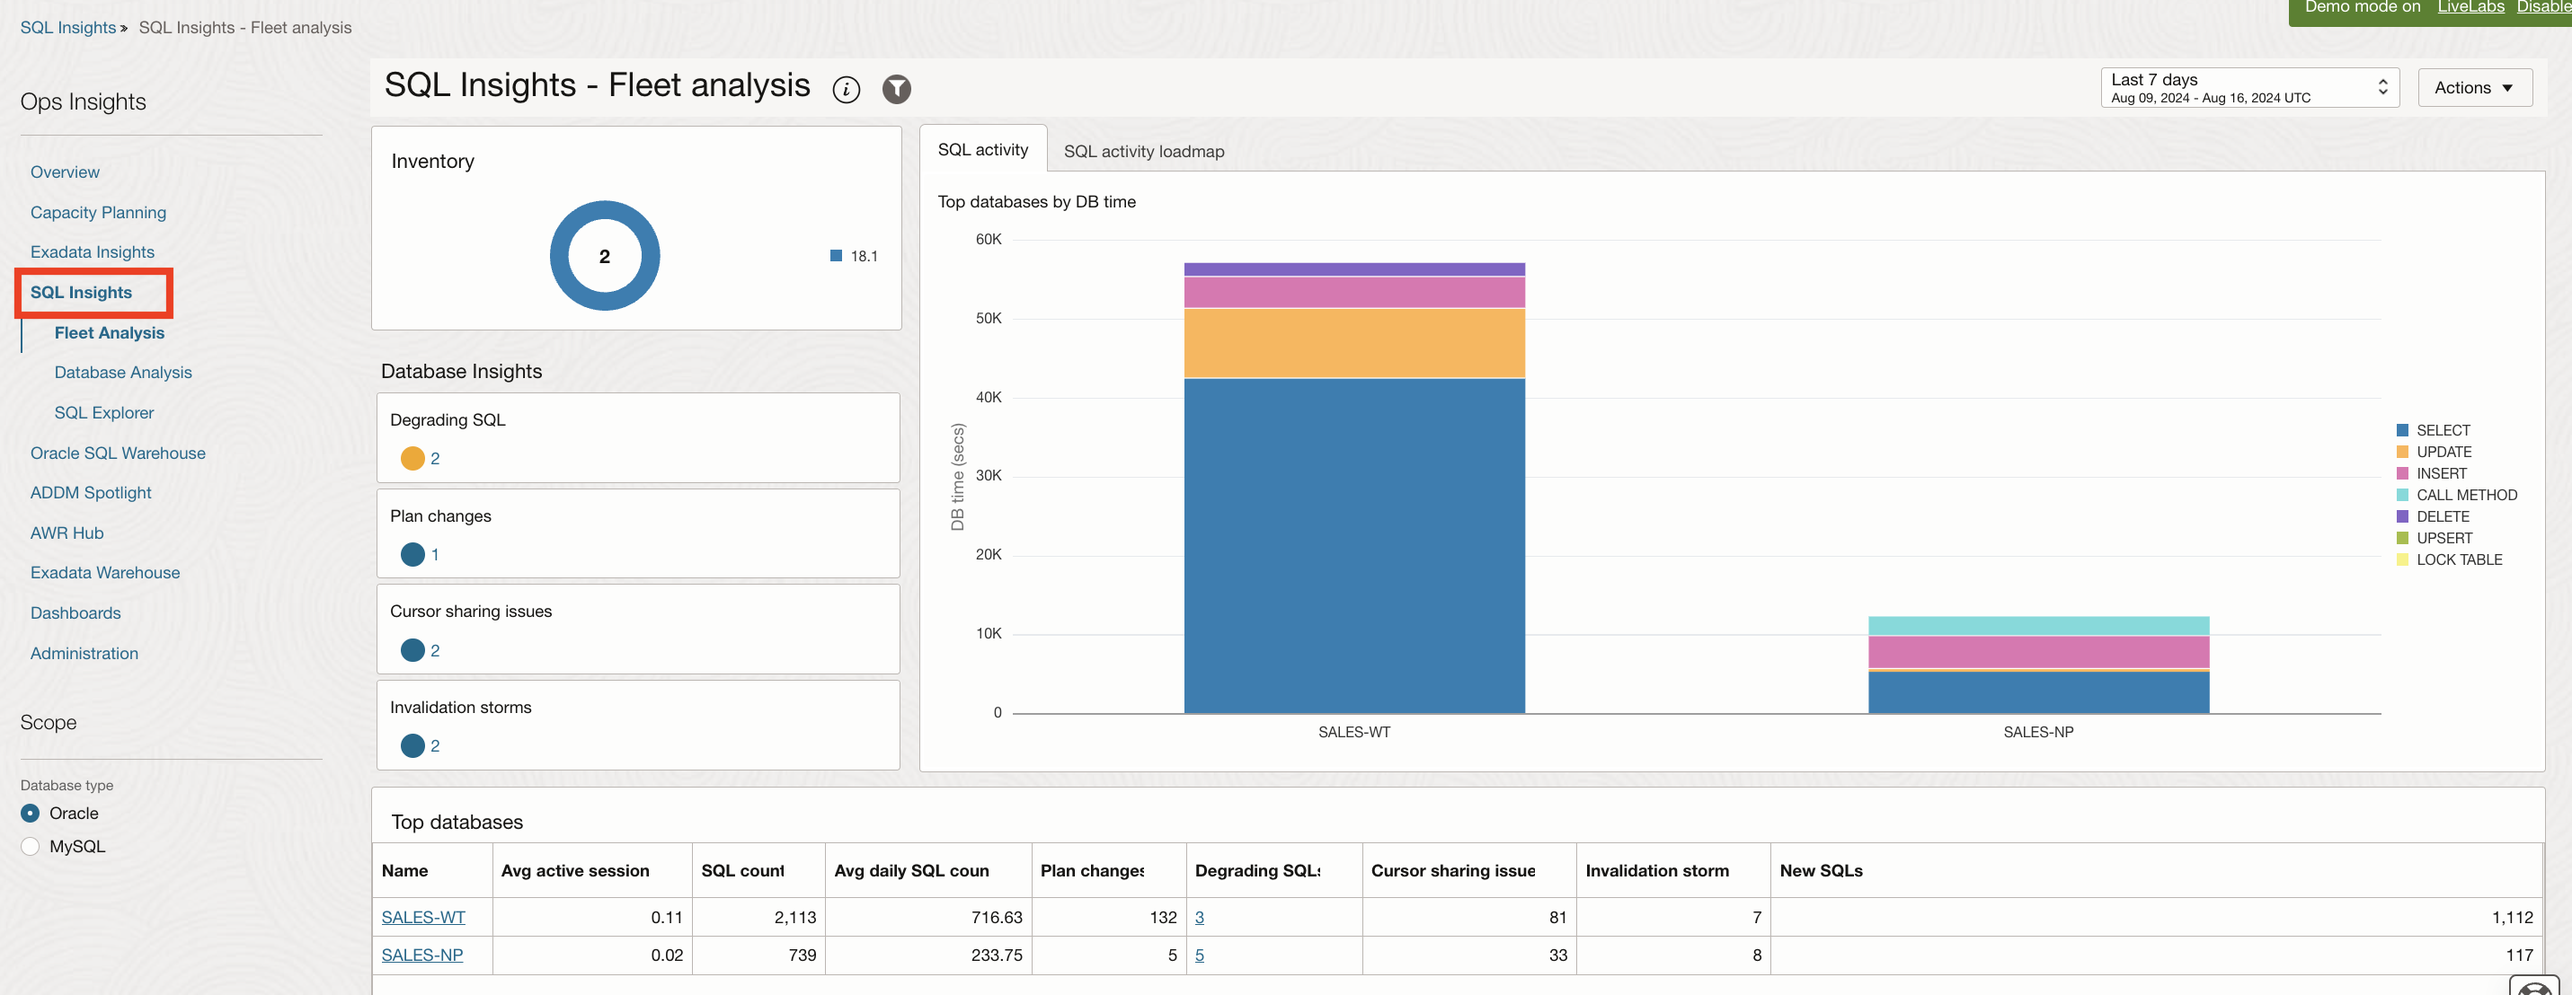
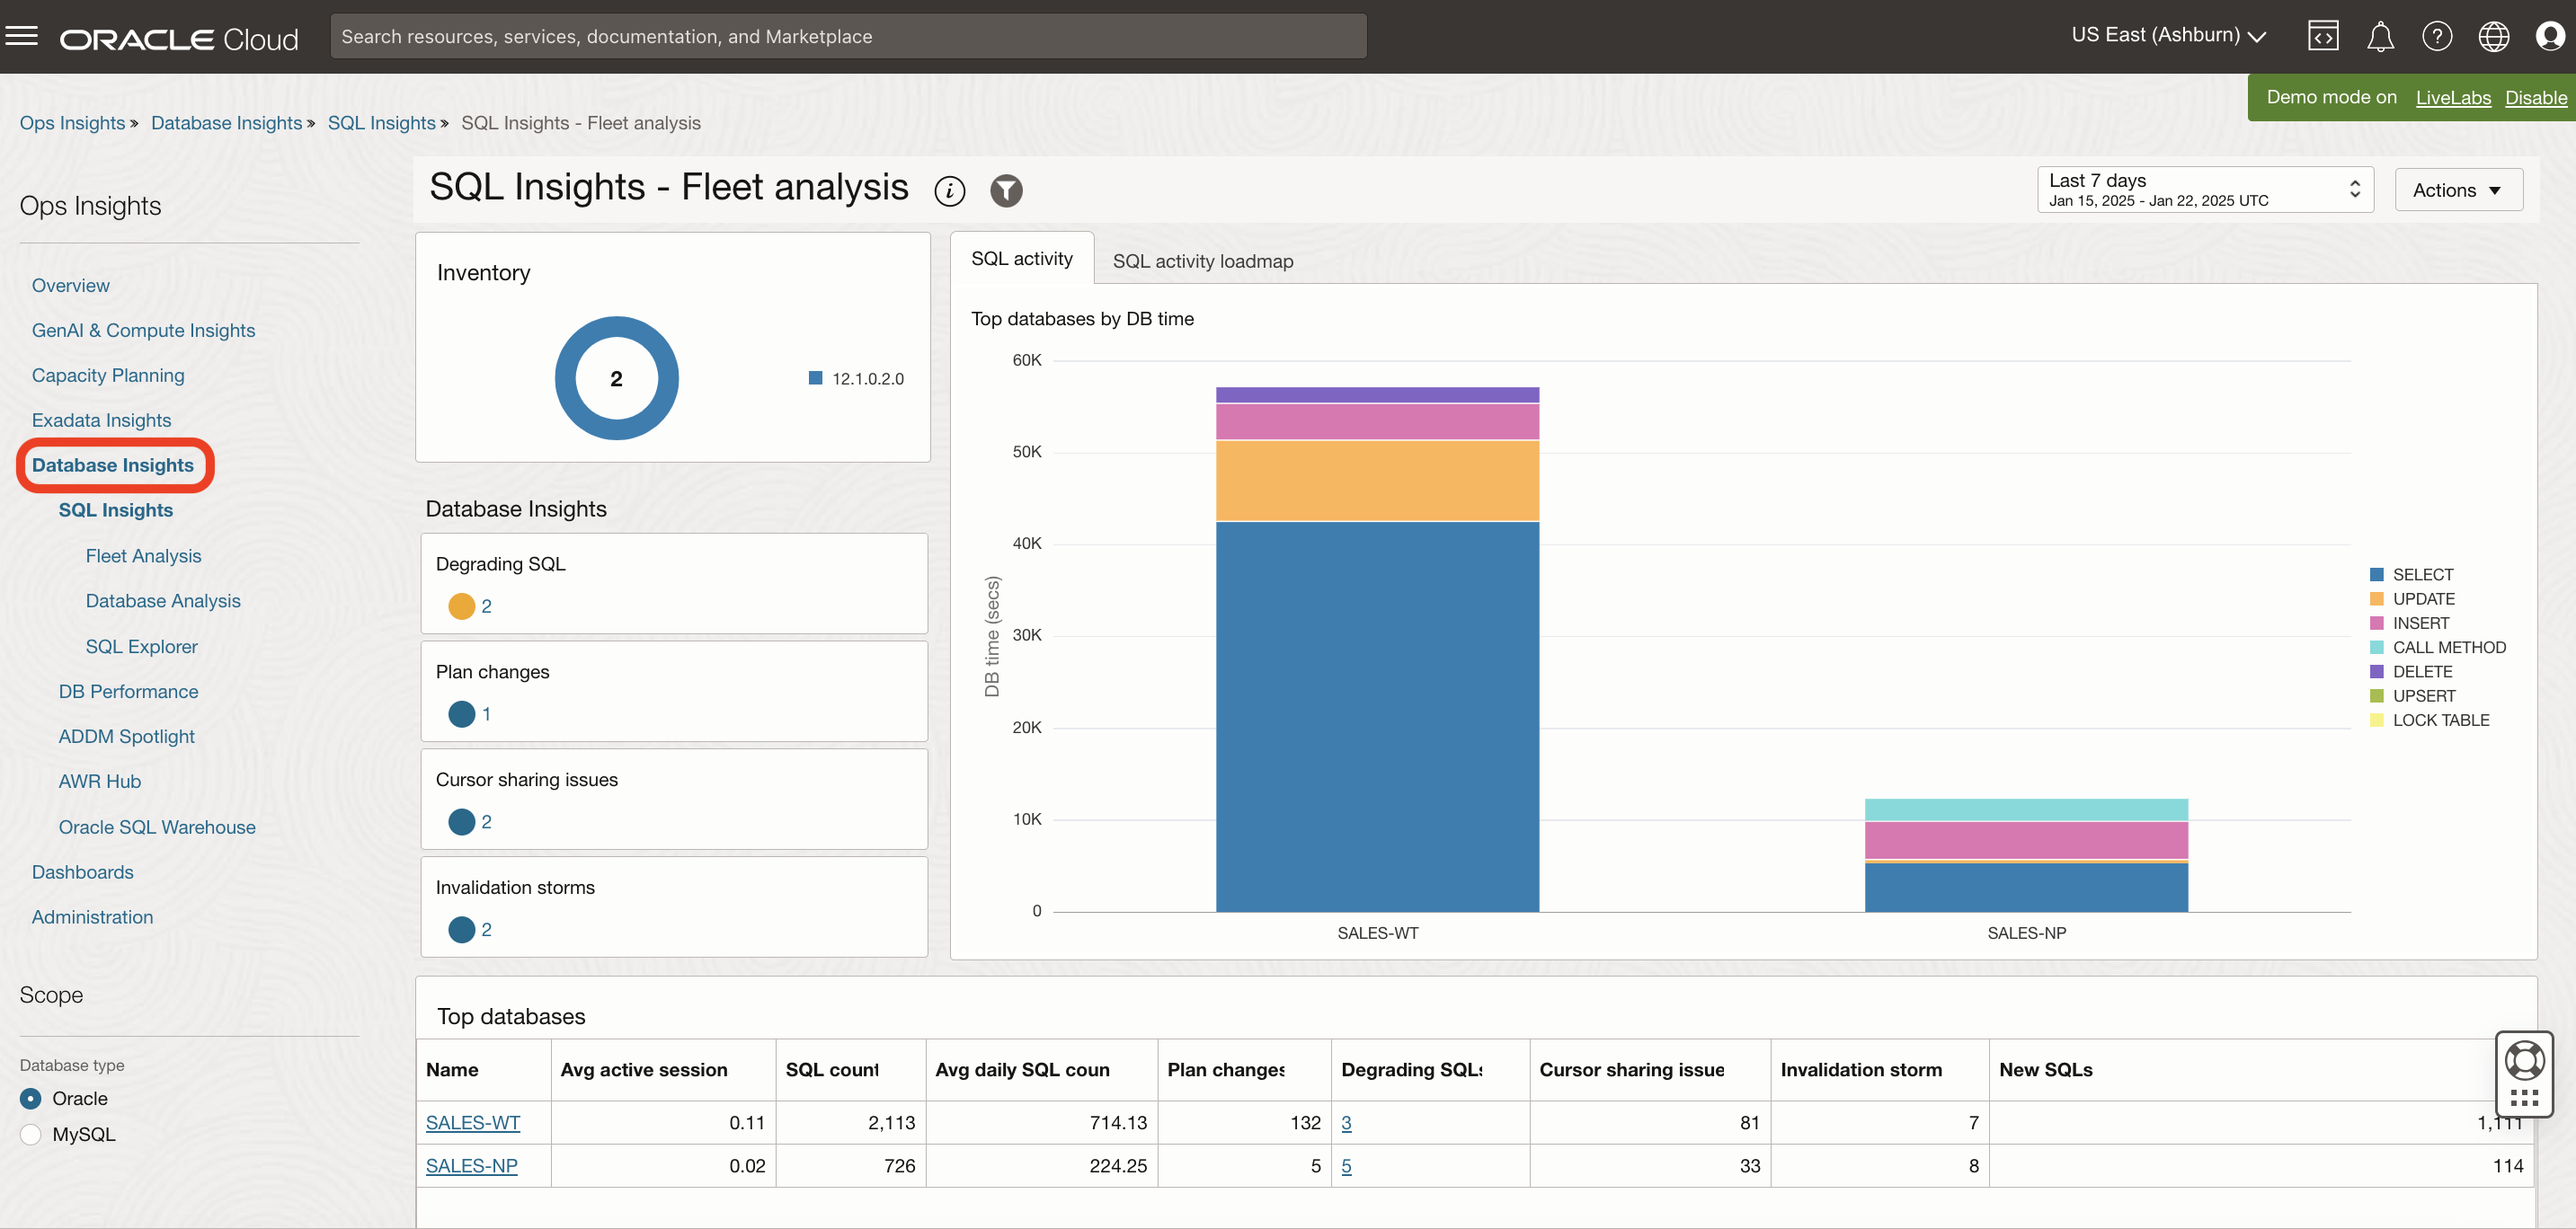
WMS ID: 7281 & 11111 NACIE SE Austin Changes (#322)
* Update manifest.json to remove cloud world help

* WMS ID 11111 : NACIE Austin 

WMS ID 11111 : NACIE Austin

* WMS ID : 11111 NACIE SE Austin

WMS ID : 11111 NACIE SE Austin

* WMS ID: 7281 NACIE SE Austin

WMS ID: 7281 NACIE SE Austin

* WMS ID: 7281 NACIE SE Austin

WMS ID: 7281 NACIE SE Austin

diff --git a/oci-database-management/ocw-oci-dbm/dbmgmt-features/dbmgmt-features-ocw.md b/oci-database-management/ocw-oci-dbm/dbmgmt-features/dbmgmt-features-ocw.md
@@ -35,17 +35,25 @@ This lab assumes you have already completed the following:
 
 ## Task 1: Getting Started with Database Management
 
-1.  Login to the Oracle Cloud Console, click the **Navigation Menu** in the upper left, navigate to **Observability & Management**, and select **Database Management**.
+1.  Login to the Oracle Cloud Console, change the OCI Region to **US East (Ashburn)** and then click on the **Navigation Menu** in the upper left, navigate to **Observability & Management**, and select **Database Management**.
+
+     ![Database Management](./images/dbmgmt_region.png " ")
 
      ![Database Management](./images/dbmgmt_ocw.png " ")
 
-     ![Database Management Overview](./images/dbmgmt-overview-ocw.png " ")
+**Note** : You will see an error due to insufficient privileges granted on the root compartment.
+     ![Database Management Overview](./images/dbmgmt-overview-ocw2.png " ")
 
-2.  The **Oracle databases** tile (on the **Overview** page) displays the total number of Oracle Databases in the compartment and the number of Oracle Databases for which Database Management is enabled.
+2.  Change the compartment to **dbmgmt** in the compartment field. The **Oracle databases** tile (on the **Overview** page) displays the total number of Oracle Databases in the compartment and the number of Oracle Databases for which Database Management is enabled.
+
+     ![Compartment](./images/compartment-select.png " ")
+
+     ![Database Management Overview](./images/dbmgmt-overview-ocw4.png " ")
+
 
 ## Task 2: Monitoring a Fleet of Databases
 
-1.  On the left pane, click **Oracle Database** to navigate to the **Fleet Summary** page. The dbmgmt compartment is selected by default in the Compartment field. Set the **Compartment** to **dbmgmt** following the navigation -
+1.  On the left pane, click **Diagnostics & Management** to navigate to the **Fleet Summary** page. The **dbmgmt** compartment is selected by default in the Compartment field. To set the **compartment** to **dbmgmt** follow the  compartment hierarchy as shown below
 
      ![Compartment](./images/compartment-select.png " ")
      

diff --git a/operations-insights/sql-performance/sql-performance-ocw.md b/operations-insights/sql-performance/sql-performance-ocw.md
@@ -17,7 +17,7 @@ This lab assumes you have completed the following labs:
 
 ## Task 1: SQL Insights
 
-1. On the **Ops Insights Overview** page, from the left pane click **SQL Insights**. On the **SQL Insights - Fleet analysis** page you can view insights and analysis over all SQL and all databases enabled in the compartment.
+1. On the **Ops Insights Overview** page, from the left pane click **Database Insights**. On the **SQL Insights - Fleet analysis** page you can view insights and analysis over all SQL and all databases enabled in the compartment.
 
       ![Left Pane](./images/sql-insights.png " ")
 
